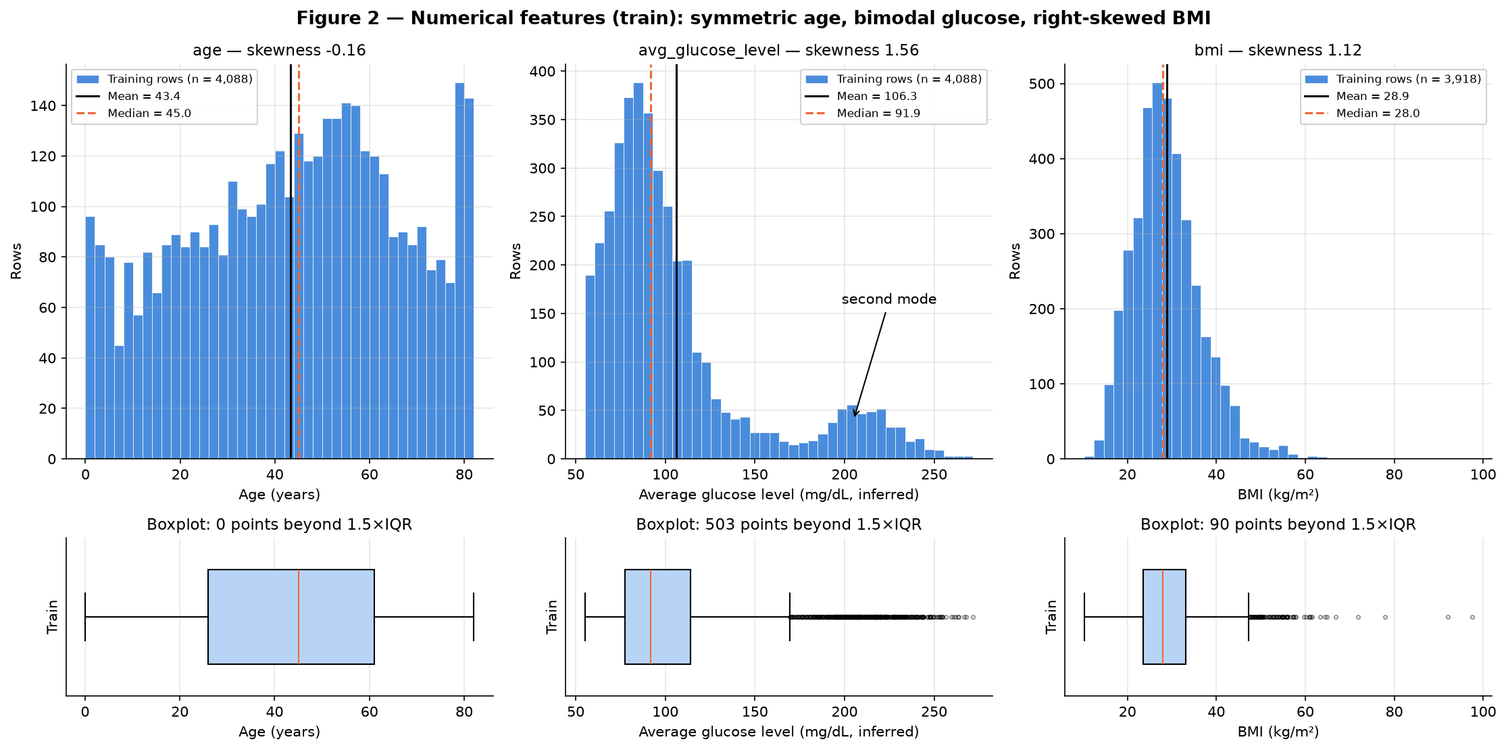
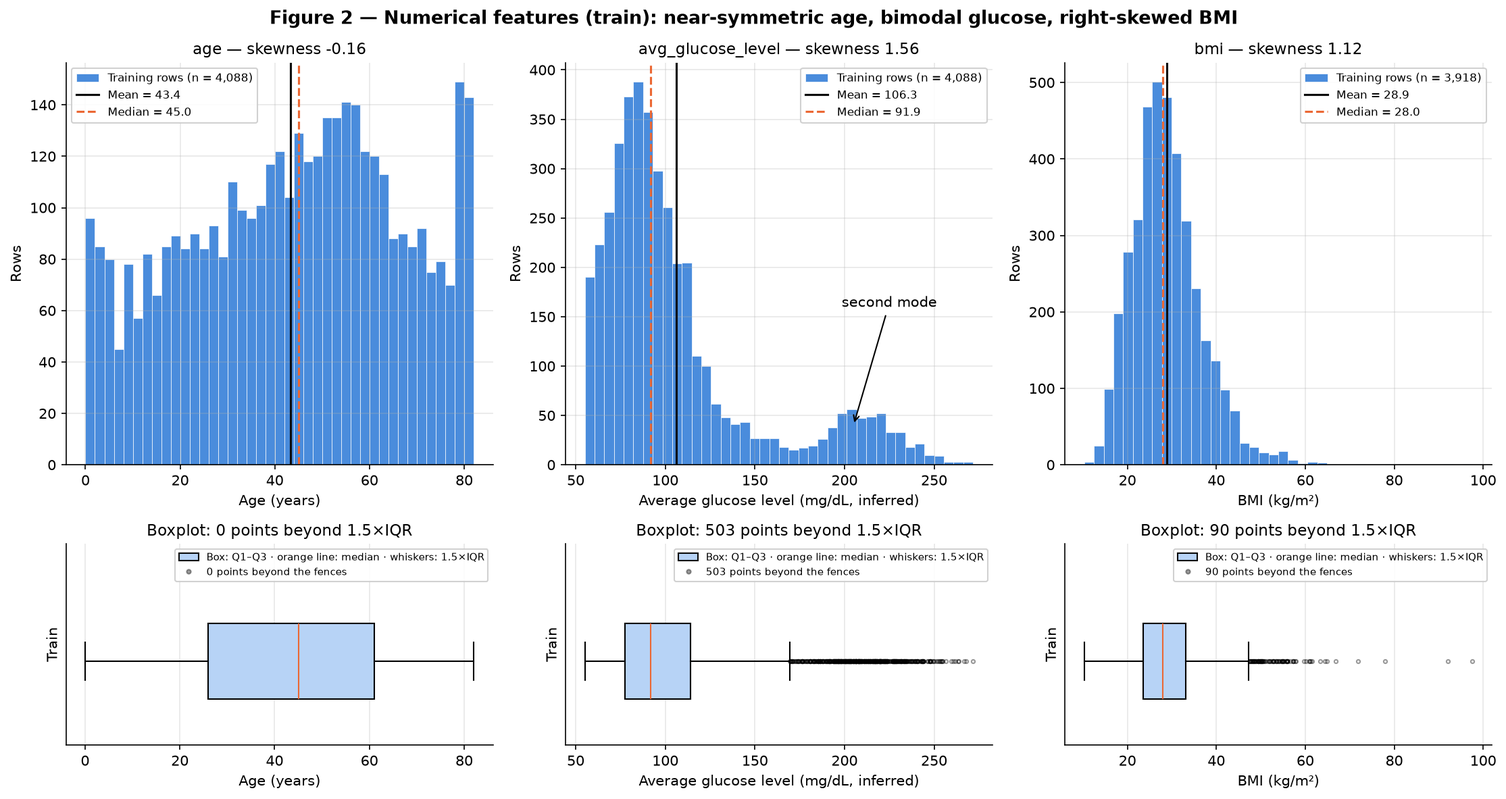
EDA: figure titles and legends built from the data, name-based column lookups, full-file medians from the raw file; report wording from the review, one conclusion per figure, code listings at the end of sections 3 and 4

diff --git a/docs/projects/eda/code/eda.py b/docs/projects/eda/code/eda.py
@@ -8,7 +8,8 @@ and every later statistic and figure uses the training rows only.
 import matplotlib.pyplot as plt
 import numpy as np
 import pandas as pd
-from matplotlib.patches import Patch
+from matplotlib.lines import Line2D
+from matplotlib.patches import Patch, Rectangle
 from scipy.stats import chi2_contingency, fisher_exact, mannwhitneyu, spearmanr
 
 from common import (CLASS_COLORS, CLASS_LABELS, GROUP_COLORS, NEUTRAL, RESULTS_DIR, UNITS, Results,
@@ -65,6 +66,7 @@ def stage1(raw, res):
     m["bmi_extremes"] = sorted(raw.bmi.dropna().nlargest(4).tolist(), reverse=True)
     m["age_min"], m["age_max"] = float(raw.age.min()), float(raw.age.max())
     m["gender_other_rows"] = int((raw.gender == "Other").sum())
+    m["id_distinct"] = int(raw[ID_COLUMN].nunique())
     m["fractional_age_max"] = float(raw.age[raw.age % 1 != 0].max())
     m["children_age_max"] = float(raw.age[raw.work_type == "children"].max())
     m["never_worked_age_range"] = [float(raw.age[raw.work_type == "Never_worked"].min()),
@@ -115,7 +117,8 @@ def stage1(raw, res):
                   width=0.6)
     for bar, n in zip(bars, counts.values):
         ax.text(bar.get_x() + bar.get_width() / 2, n + 60, f"{n:,} ({n / len(raw):.2%})", ha="center")
-    ax.set(title="Class frequencies (full file, 5,110 rows)", xlabel="Target class", ylabel="Rows", ylim=(0, 5600))
+    ax.set(title=f"Class frequencies (full file, {len(raw):,} rows)", xlabel="Target class", ylabel="Rows",
+           ylim=(0, counts.max() * 1.15))
     ax.legend(handles=[Patch(color=CLASS_COLORS[k], label=CLASS_LABELS[k]) for k in (0, 1)], loc="upper right")
     ax = axes[1]
     row = np.arange(len(raw))
@@ -124,7 +127,7 @@ def stage1(raw, res):
     ax.set(title="Positives by position in the CSV: the file is sorted by target",
            xlabel="Row position in the CSV", ylabel="Cumulative stroke = 1 rows")
     ax.legend(loc="lower right")
-    save_figure(fig, 1, "Target: 4.87% positives, all stored at the top of the file")
+    save_figure(fig, 1, f"Target: {m['pos_pct']:.2f}% positives, all stored at the top of the file")
 
     train = X_train.assign(**{TARGET: y_train})
     return train
@@ -158,7 +161,7 @@ def stage2(train, res):
     m["glucose_above_150_pct"] = float((glucose > 150).mean() * 100)
 
     # Figure 2 — histograms with mean/median and boxplots (shape, modes, outliers)
-    fig, axes = plt.subplots(2, 3, figsize=(15, 7.5), gridspec_kw={"height_ratios": [3, 1.2]})
+    fig, axes = plt.subplots(2, 3, figsize=(15, 8), gridspec_kw={"height_ratios": [3, 1.5]})
     for j, c in enumerate(NUM):
         x = train[c].dropna()
         ax = axes[0, j]
@@ -170,15 +173,21 @@ def stage2(train, res):
         ax.set(title=f"{c} — skewness {x.skew():.2f}", xlabel=UNITS[c], ylabel="Rows")
         ax.legend(loc="upper left" if c == "age" else "upper right")
         ax = axes[1, j]
-        ax.boxplot(x, orientation="horizontal", widths=0.6, patch_artist=True,
+        ax.boxplot(x, orientation="horizontal", widths=0.45, patch_artist=True,
                    boxprops={"facecolor": "#b7d3f6"}, medianprops={"color": CLASS_COLORS[1]},
                    flierprops={"marker": "o", "markersize": 2.5, "alpha": 0.4})
         q1, q3 = x.quantile(.25), x.quantile(.75)
         n_out = int(((x < q1 - 1.5 * (q3 - q1)) | (x > q3 + 1.5 * (q3 - q1))).sum())
-        ax.set(xlabel=UNITS[c], yticks=[], ylabel="Train", title=f"Boxplot: {n_out} points beyond 1.5×IQR")
+        ax.set(xlabel=UNITS[c], yticks=[], ylabel="Train", ylim=(0.5, 1.7),
+               title=f"Boxplot: {n_out} points beyond 1.5×IQR")
+        ax.legend(handles=[Patch(facecolor="#b7d3f6", edgecolor="#0b0b0b",
+                                 label="Box: Q1–Q3 · orange line: median · whiskers: 1.5×IQR"),
+                           Line2D([], [], marker="o", color="#0b0b0b", ls="none", ms=3, alpha=0.4,
+                                  label=f"{n_out} points beyond the fences")],
+                  loc="upper right", fontsize=7)
     axes[0, 1].annotate("second mode", xy=(m["glucose_mode_high"], 40), xytext=(225, 160),
                         arrowprops={"arrowstyle": "->"}, ha="center")
-    save_figure(fig, 2, "Numerical features (train): symmetric age, bimodal glucose, right-skewed BMI")
+    save_figure(fig, 2, "Numerical features (train): near-symmetric age, bimodal glucose, right-skewed BMI")
 
     # 2B — frequencies, cardinality and rare categories
     rows = []
@@ -213,13 +222,13 @@ def stage2(train, res):
     ax = axes.flat[-1]
     card = pd.Series({c: train[c].nunique() for c in CAT}).sort_values()
     ax.barh(card.index, card.values, color=NEUTRAL, height=0.6, label="Distinct categories")
-    ax.set(title="Cardinality (id: 5,110 distinct, dropped)", xlabel="Distinct categories in train", ylabel="Feature",
-           xticks=range(0, 7))
+    ax.set(title=f"Cardinality (id: {m['id_distinct']:,} distinct, dropped)", xlabel="Distinct categories in train",
+           ylabel="Feature", xticks=range(0, 7))
     ax.legend(loc="lower right")
     fig.legend(handles=[Patch(color=CLASS_COLORS[0], label="Category with ≥ 1% of the training rows"),
                         Patch(color=CLASS_COLORS[1], label="Rare category: < 1% of the training rows")],
                loc="lower center", ncol=2, bbox_to_anchor=(0.5, -0.03), fontsize=10)
-    save_figure(fig, 3, "Categorical features (train): low cardinality, two rare categories")
+    save_figure(fig, 3, f"Categorical features (train): low cardinality, {len(m['rare_categories'])} rare categories")
 
 
 def stage3(train, res):
@@ -259,9 +268,13 @@ def stage3(train, res):
                         color="white" if abs(mat.iloc[r, c]) > 0.6 else "#0b0b0b")
         ax.set(title=f"{method.capitalize()} (pairwise-complete)", xlabel="Feature", ylabel="Feature")
         fig.colorbar(im, ax=ax, fraction=0.046, label=f"{method.capitalize()} coefficient")
-    fig.legend(handles=[Patch(color="#b7d3f6", label="Pearson r: linear association, pulled by extreme values"),
-                        Patch(color="#f4c4b0", label="Spearman ρ: monotonic association on ranks")],
-               loc="lower center", ncol=2, bbox_to_anchor=(0.5, -0.04), fontsize=9)
+        i, j = (NUM.index(f) for f in top["pair"].split(" × "))
+        for r, c in ((i, j), (j, i)):
+            ax.add_patch(Rectangle((c - 0.5, r - 0.5), 1, 1, fill=False, edgecolor="#0b0b0b", lw=2))
+    fig.legend(handles=[Patch(facecolor="none", edgecolor="#0b0b0b", lw=2,
+                              label=f"Strongest pair: {top['pair']} — no pair reaches the redundancy flag "
+                                    f"|ρ| ≥ {REDUNDANT_RHO:.2f}")],
+               loc="lower center", bbox_to_anchor=(0.5, -0.04), fontsize=9)
     save_figure(fig, 4, "Numerical correlations (train): no redundant pair, strongest is age × BMI")
 
     # Figure 5 — scatter plots of the three pairs, positives drawn on top
@@ -288,6 +301,7 @@ def stage3(train, res):
             rows.append({"feature": c, "category": str(k), "n": int(r["count"]), "strokes": int(r["sum"]),
                          "stroke rate (%)": r["sum"] / r["count"] * 100, "ci_lo": lo * 100, "ci_hi": hi * 100})
         table = pd.crosstab(train[c], y)
+        # Pearson's chi-square without Yates' continuity correction (the correction only applies to 2x2 tables)
         chi2, p, dof, expected = chi2_contingency(table, correction=False)
         # expected counts below 5 invalidate the approximation: drop those categories and re-test
         small = table.index[(expected < 5).any(axis=1)]
@@ -331,8 +345,12 @@ def stage3(train, res):
     ax.barh(assoc.feature[::-1], assoc["Cramér's V"][::-1], color=NEUTRAL, height=0.55, label="Cramér's V")
     ax.set(title="Strength of association with stroke", xlabel="Cramér's V (0 = none)", ylabel="Feature")
     ax.legend(loc="lower right")
-    save_figure(fig, 6, "Stroke rate by category (train): "
-                        "hypertension, heart disease and marriage multiply it by 3.5–3.9")
+    binary = ["hypertension", "heart_disease", "ever_married"]
+    ratios = {c: float(rates.loc[rates.feature == c, "stroke rate (%)"].max()
+                       / rates.loc[rates.feature == c, "stroke rate (%)"].min()) for c in binary}
+    m["binary_rate_ratios"] = ratios
+    save_figure(fig, 6, "Stroke rate by category (train): hypertension, heart disease and marriage multiply it by "
+                        f"{min(ratios.values()):.1f}–{max(ratios.values()):.1f}")
 
     # 3C — grouped location (median) and spread (IQR) summaries
     def grouped(by, features):

diff --git a/docs/projects/eda/code/reduction.py b/docs/projects/eda/code/reduction.py
@@ -73,7 +73,7 @@ def outliers(X_train, y_train, res):
     m["bmi_minmax_q1_median_q3"] = [float((b.quantile(q) - b.min()) / span) for q in (.25, .5, .75)]
 
 
-def pipeline_checks(pre, X_train, X_test, Xt, Xv, names, res):
+def pipeline_checks(pre, raw, X_train, X_test, Xt, Xv, names, res):
     """4C contract: no NaN, shapes, names, train-only statistics, unseen categories."""
     m = res.metrics
     m["train_shape"], m["test_shape"] = list(Xt.shape), list(Xv.shape)
@@ -92,15 +92,16 @@ def pipeline_checks(pre, X_train, X_test, Xt, Xv, names, res):
     res.table(15, "Parameters fitted by the pipeline (training rows only)", pd.DataFrame(rows),
               {"imputation median": ".3f", "scaler mean": ".4f", "scaler std": ".4f"})
     assert np.isclose(log["impute"].statistics_[1], X_train.bmi.median())
-    full = pd.concat([X_train, X_test])
-    m["bmi_median_train"], m["bmi_median_full"] = float(X_train.bmi.median()), float(full.bmi.median())
+    # the full-file medians come from the raw file, read once in stage 1, to show what fitting there would give
+    m["bmi_median_train"], m["bmi_median_full"] = float(X_train.bmi.median()), float(raw.bmi.median())
     m["glucose_median_train"], m["glucose_median_full"] = (float(X_train.avg_glucose_level.median()),
-                                                           float(full.avg_glucose_level.median()))
-    m["num_means_train"] = Xt[:, :3].mean(axis=0).round(6).tolist()
-    m["num_stds_train"] = Xt[:, :3].std(axis=0).round(6).tolist()
-    m["num_means_test"] = Xv[:, :3].mean(axis=0).round(4).tolist()
-    m["num_stds_test"] = Xv[:, :3].std(axis=0).round(4).tolist()
-    m["max_abs_z_train"] = np.abs(Xt[:, :3]).max(axis=0).round(2).tolist()
+                                                           float(raw.avg_glucose_level.median()))
+    scaled = [i for i, n in enumerate(names) if n.startswith(("num__", "log__"))]
+    m["num_means_train"] = Xt[:, scaled].mean(axis=0).round(6).tolist()
+    m["num_stds_train"] = Xt[:, scaled].std(axis=0).round(6).tolist()
+    m["num_means_test"] = Xv[:, scaled].mean(axis=0).round(4).tolist()
+    m["num_stds_test"] = Xv[:, scaled].std(axis=0).round(4).tolist()
+    m["max_abs_z_train"] = np.abs(Xt[:, scaled]).max(axis=0).round(2).tolist()
 
     # A category never seen in training, and missing values everywhere, still give a finite row of the same width
     probe = X_test.iloc[:2].copy()
@@ -146,7 +147,8 @@ def main():
     """Run stage 4 and write Tables 13-18, Figures 9-13 and results/reduction_metrics.json."""
     res = Results("reduction")
     m = res.metrics
-    X_train, X_test, y_train, y_test = split(load_raw())
+    raw = load_raw()
+    X_train, X_test, y_train, y_test = split(raw)
     y = y_train.to_numpy()
 
     outliers(X_train, y_train, res)
@@ -155,7 +157,7 @@ def main():
     Xt = pre.fit_transform(X_train)     # fit on train only
     Xv = pre.transform(X_test)          # test is only transformed
     names = pre.get_feature_names_out()
-    pipeline_checks(pre, X_train, X_test, Xt, Xv, names, res)
+    pipeline_checks(pre, raw, X_train, X_test, Xt, Xv, names, res)
 
     # BMI missingness vs target in train (motivates the indicator)
     miss = X_train.bmi.isna().to_numpy()
@@ -210,9 +212,10 @@ def main():
     res.table(17, "Largest PCA loadings (eigenvector coefficients) of PC1 and PC2", top,
               {"PC1": "+.3f", "PC2": "+.3f"})
     m["loadings"] = load.set_index("feature").to_dict(orient="index")
-    # correlation of the PC scores with the raw numerical features (helps naming the components)
+    # correlation of the PC scores with the scaled numerical columns and the indicator (helps naming the components)
     for i in (0, 1):
-        m[f"pc{i + 1}_corr"] = {c: float(np.corrcoef(P[:, i], Xt[:, j])[0, 1]) for j, c in enumerate(names[:4])}
+        m[f"pc{i + 1}_corr"] = {n: float(np.corrcoef(P[:, i], Xt[:, j])[0, 1])
+                                for j, n in enumerate(names) if not n.startswith("cat__")}
 
     # Figure 10 — PCA scatter, cumulative variance, loadings
     fig, axes = plt.subplots(1, 3, figsize=(18, 5.2))
@@ -275,7 +278,7 @@ def main():
                  "positives among 10-NN of positives (%)": enr, "same categorical profile among 10-NN (%)": agr})
     m["n_profiles_shuffled"] = int(len(set(cat_s)))
     diag = pd.DataFrame(rows)
-    res.table(18, "Projection diagnostics (train, 4,088 rows; base rate 4.87%)", diag,
+    res.table(18, f"Projection diagnostics (train, {len(y):,} rows; base rate {y.mean():.2%})", diag,
               {"trustworthiness k=5": ".3f", "trustworthiness k=30": ".3f",
                "positives among 10-NN of positives (%)": ".2f", "same categorical profile among 10-NN (%)": ".1f"})
     m["projection_diagnostics"] = diag.to_dict(orient="records")

diff --git a/docs/projects/eda/code/preprocessing.py b/docs/projects/eda/code/preprocessing.py
@@ -42,8 +42,8 @@ def load_raw(path=DATA_PATH):
 def split(df, test_size=0.2):
     """Stratified 80/20 split with a fixed seed; returns X_train, X_test, y_train, y_test.
 
-    The file is sorted by the target (the 249 positives are its first rows), so the split
-    must shuffle; stratification keeps the 4.87% minority rate identical in both parts.
+    The file is sorted by the target (every positive comes first), so the split must shuffle;
+    stratification keeps the minority rate the same in both parts.
     """
     X = df[FEATURES]
     y = df[TARGET]

diff --git a/docs/projects/eda/index.md b/docs/projects/eda/index.md
@@ -27,7 +27,7 @@ The run takes about 80 seconds on a laptop. It writes Figures 1–13 to `figures
 
 **Challenges.**
 
-- *The file is sorted by the target.* The 249 positives are its first 249 rows, so any split that does not shuffle would leave the test set without a single positive. The split shuffles and stratifies.
+- *The file is sorted by the target.* The 249 positives are its first 249 rows, so a sequential cut that keeps the last 20% as the test set would hold no positive at all. The split shuffles and stratifies.
 - *Missing values that carry information.* BMI is missing five times more often among the positives. Imputing it silently would erase that signal, and dropping the rows would remove 18.6% of the training positives; the pipeline imputes and keeps an indicator.
 - *Outliers that are a population.* The 503 glucose values that the 1.5×IQR rule flags are the second mode of a bimodal distribution, with a stroke rate of 13.12%. Nothing is deleted or clipped; the tails are compressed with `log1p`.
 - *Categories that are age in disguise.* Marriage, work type and smoking status look like risk factors until age is held fixed. Section 3C re-tests every category within age bands, and one effect reverses.
@@ -129,7 +129,7 @@ The run takes about 80 seconds on a laptop. It writes Figures 1–13 to `figures
 
 - **`id` — dropped.** It is an identifier, not a measurement. Its Spearman correlation with the target is 0.0065 (p = 0.64), so it carries no signal. It is also unique, so there are no repeated patients to group in the split.
 - **Row order leaks the target.** The 249 positives occupy rows 1–249 of the CSV, and every negative comes after them (Figure 1, right). Any split that does not shuffle — such as taking the last 20% of the file as the test set — would hold **0 positives** in the test set. Positional information (the row index, or a sequential cut) must never reach a model, and the split below shuffles.
-- **The BMI missingness is suspiciously related to the target.** The stroke rate is 19.90% (40 of 201) when `bmi` is missing, against 4.26% (209 of 4,909) when it is observed. A plausible mechanism is that BMI was not recorded for patients admitted *because of* a stroke. If so, "BMI is missing" is partly a consequence of the label. It is kept as an indicator (4A) because the information is real in this file, but it is listed as a leakage risk with a test plan (section 5).
+- **The BMI missingness is suspiciously related to the target.** The stroke rate is 19.90% (40 of 201) when `bmi` is missing, against 4.26% (209 of 4,909) when it is observed (on the training rows alone, 21.76% against 4.13%, Figure 9). A plausible mechanism is that BMI was not recorded for patients admitted *because of* a stroke. If so, "BMI is missing" is partly a consequence of the label. It is kept as an indicator (4A) because the information is real in this file, but it is listed as a leakage risk with a test plan (section 5).
 - **No smoking-gun feature.** No predictor comes close to the course's "correlation > 0.95 with the target" warning. The strongest single feature is `age`, with a single-feature AUC of 0.834 (Table 10), and its relation to stroke is clinically expected. Among the categorical features, the largest Cramér's V is 0.133 (Table 9).
 - **Timing of the clinical flags is unknown.** `hypertension` and `heart_disease` might have been recorded after the stroke. Nothing in the file can settle this, so it is a modeling risk, not a reason to drop them.
 - **No constant column** and no other identifier.
@@ -188,10 +188,10 @@ Figure 2 — Histograms, with the mean and the median marked, and boxplots of th
 The figure shows histograms, to read the shape and the modes, with boxplots below, to count the points beyond 1.5×IQR. The mean is drawn next to the median because their gap is the cheapest skewness diagnostic.
 
 - **`age`** — roughly uniform between 0 and 82 years, with a slight left skew (−0.16; mean 43.35 < median 45.00) and a flat shape (excess kurtosis −0.98). The two tallest 2-year bins are the last ones, 78–80 and 80–82: the oldest patients are over-represented, and none is older than 82. No point lies beyond the IQR fences.
-- **`avg_glucose_level`** — strongly right-skewed (1.56; mean 106.32 > median 91.94) and, above all, **bimodal**. The main mode is near 85 mg/dL and a second mode near 205 mg/dL, separated by a valley near 175 mg/dL. 589 training rows (14.41%) lie above 150 mg/dL. The boxplot flags 503 points as "outliers", but they are not isolated errors: they are the second mode — a subpopulation, most likely diabetic patients, whose diagnosis is not a column of the file.
+- **`avg_glucose_level`** — strongly right-skewed (1.56; mean 106.32 > median 91.94) and, above all, **bimodal**. Located on a 10 mg/dL histogram, the main mode is near 85 mg/dL and a second mode near 205 mg/dL, separated by a valley near 175 mg/dL. 589 training rows (14.41%) lie above 150 mg/dL. The boxplot flags 503 points as "outliers", but they are not isolated errors: they are the second mode — a subpopulation, most likely diabetic patients, whose diagnosis is not a column of the file.
 - **`bmi`** — right-skewed (1.12; mean 28.92 > median 28.00) with a heavy right tail (excess kurtosis 3.84). 90 points lie beyond the upper fence of 47.35, and the maximum is 97.6.
 
-**Conclusion — Figure 2.** Age needs only rescaling. Glucose and BMI exceed the course's skewness threshold of 1, and glucose additionally mixes two populations. *This implies that* glucose and BMI need a log transform before standardization (4A). It also implies that the 1.5×IQR rule cannot be used to delete glucose rows, since it would delete the second mode.
+**Conclusion — Figure 2.** Age needs only rescaling. Glucose and BMI exceed the course's skewness threshold of 1, and glucose additionally mixes two populations. *This implies that* glucose and BMI need a log transform before standardization (4A), and that the 1.5×IQR rule cannot be used to delete glucose rows, since it would delete the second mode.
 
 ### B — Categorical
 
@@ -230,7 +230,7 @@ Figure 3 — Frequency of every category in the training rows, rare categories (
 - **Imbalanced flags:** `hypertension = 1` (9.71%) and `heart_disease = 1` (5.41%) are minority categories, but they are not rare.
 - **`smoking_status = Unknown` is the second largest category** (1,247 rows, 30.50%). Its size alone rules out dropping those rows.
 
-**Conclusion — Figure 3.** All seven features have small, closed vocabularies, with two rare categories and one large disguised-missing category. *This implies that* one-hot encoding is cheap — 20 columns in total. It also implies that the encoder must tolerate a category it has never seen, because a vocabulary built from one `Other` row is fragile.
+**Conclusion — Figure 3.** All seven features have small, closed vocabularies, with two rare categories and one large disguised-missing category. *This implies that* one-hot encoding is cheap — 20 columns in total — and that the encoder must tolerate a category it has never seen, because a vocabulary built from one `Other` row is fragile.
 
 ## 3. Bivariate and multivariate analysis
 
@@ -261,7 +261,7 @@ Figure 4 — Pearson and Spearman correlation matrices of the numerical features
 Figure 5 — Scatter plots of the three numerical pairs, training rows, with the stroke cases drawn on top.
 ///
 
-**Conclusion — Figure 5.** The age × BMI association is a **childhood growth effect**. Among adults (age ≥ 18, n = 3,259), the same Spearman coefficient falls from 0.381 to 0.083: the pooled correlation is mostly confounding by age group (children against adults), the reason the course lab asks for correlations within groups as well. The plots also show where the positives sit: at older ages, in both glucose modes, with BMI near the middle of its range. *This implies that* correlations computed on the pooled data overstate the redundancy between age and BMI. It also implies that age is the variable organizing the positives.
+**Conclusion — Figure 5.** The age × BMI association is a **childhood growth effect**. Among adults with an observed BMI (age ≥ 18, n = 3,259), the same Spearman coefficient falls from 0.381 to 0.083: the pooled correlation is mostly confounding by age group (children against adults), the reason the course lab asks for correlations within groups as well. The plots also show where the positives sit: at older ages, in both glucose modes, with BMI near the middle of its range. *This implies that* correlations computed on the pooled data overstate the redundancy between age and BMI, and that age is the variable organizing the positives.
 
 ### B — Categorical × target
 
@@ -290,7 +290,7 @@ Figure 5 — Scatter plots of the three numerical pairs, training rows, with the
 | smoking_status | never smoked | 1501 | 71 | 4.73 | 3.8–5.9 |
 | smoking_status | smokes | 626 | 34 | 5.43 | 3.9–7.5 |
 
-**Table 9 — Association of each categorical feature with the target (train).** Each row is a χ² test of independence, with Cramér's V as the effect size, since with n = 4,088 a p-value alone says little.
+**Table 9 — Association of each categorical feature with the target (train).** Each row is Pearson's χ² test of independence, without Yates' continuity correction, with Cramér's V as the effect size, since with n = 4,088 a p-value alone says little.
 
 | feature | χ² | dof | p-value | Cramér's V | min expected count | p-value, categories with expected < 5 removed |
 |---|---|---|---|---|---|---|
@@ -396,7 +396,17 @@ The age bands separate the real signals from the age proxies:
 - **The work and smoking effects almost disappear.** At 60+, Self-employed (12.40%) is no longer above Private (13.53%). Formerly smoked (14.47%) is only slightly above never smoked (12.86%).
 - **Marriage reverses.** At 60+, the never-married have the higher rate: 20.48% (17 of 83; 95% Wilson 13.2–30.4%) against 12.34% for the married (10.5–14.5%), Fisher p = 0.041. The group is small, so the reversal itself is only suggestive, but the pattern is that of a Simpson's paradox: the median age is 54 for the married and 18 for the never-married, so the unadjusted 3.9× mostly reflects the age gap, not marriage.
 
-*This implies that* the network must see age together with the categorical features. It also implies that none of the social categories can be presented as a risk factor.
+*This implies that* the network must see age together with the categorical features, and that none of the social categories can be presented as a risk factor.
+
+### Code
+
+``` python title="code/eda.py"
+--8<-- "docs/projects/eda/code/eda.py"
+```
+
+``` python title="code/common.py"
+--8<-- "docs/projects/eda/code/common.py"
+```
 
 ## 4. Preprocessing
 
@@ -418,7 +428,7 @@ The pipeline is defined in `code/preprocessing.py` (shown in 4C) and fitted on t
 Figure 9 — Stroke rate by BMI missingness (left) and the distributions of glucose and BMI after log1p and standardization; training rows.
 ///
 
-**Conclusion — Figure 9.** BMI missingness multiplies the stroke rate by about five (left). The `log1p` transform brings BMI's skewness from 1.12 to 0.04 (right) and glucose's from 1.56 to 0.88 (middle). Glucose remains bimodal: `log1p` leaves both modes in place. *This implies that* the indicator is needed. It also implies that the log fixes the BMI tail, while the glucose second mode stays a structure the network must learn.
+**Conclusion — Figure 9.** BMI missingness multiplies the stroke rate by about five (left). The `log1p` transform brings BMI's skewness from 1.12 to 0.04 (right) and glucose's from 1.56 to 0.88 (middle). Glucose remains bimodal: `log1p` leaves both modes in place. *This implies that* the indicator is needed, and that the log fixes the BMI tail while the glucose second mode stays a structure the network must learn.
 
 **2 — Outliers.**
 
@@ -513,7 +523,7 @@ Figure 10 — PCA of the transformed training matrix: scores colored by the targ
 
 **Conclusion — Figure 10.** The positives sit at high PC1 (older patients) and spread along PC2 across both glucose modes, inside a cloud of negatives. *This implies that* the target is not linearly separable in the two directions of largest variance. A linear 2D summary would be a poor input for the classifier.
 
-**t-SNE and UMAP.** Following the course's advice to run at least three values across the usual 5–50 range, each method is fitted three times:
+**t-SNE and UMAP.** The statement asks for at least two values of each parameter; the course's reduction handout recommends at least three across the usual 5–50 range, so each method is fitted three times:
 
 - **t-SNE:** perplexity 5, 30 and 50 (`init="pca"`, `learning_rate="auto"`, `random_state=42`). The final KL divergences are 0.971, 1.017 and 1.059.
 - **UMAP:** n_neighbors 5, 15 and 50 (`min_dist=0.1`, `random_state=42`).
@@ -539,7 +549,7 @@ Figure 12 — UMAP of the transformed training matrix at n_neighbors 5, 15 and 5
 Figure 13 — PCA, t-SNE and UMAP colored by work type (top) and by age, with the stroke cases circled (bottom).
 ///
 
-**Conclusion — Figure 13.** Colored by `work_type` (top), the t-SNE and UMAP islands are homogeneous blocks of categories — children form islands of their own — while PCA mixes every category in one cloud. Colored by age (bottom), every map shows the positives on the oldest points, whatever the island. *This implies that* the nonlinear maps are organized by the categorical profiles, while the risk follows age across them. It also implies that the islands are not stroke subtypes.
+**Conclusion — Figure 13.** Colored by `work_type` (top), the t-SNE and UMAP islands are homogeneous blocks of categories — children form islands of their own — while PCA mixes every category in one cloud. Colored by age (bottom), every map shows the positives on the oldest points, whatever the island. *This implies that* the nonlinear maps are organized by the categorical profiles while the risk follows age across them, so the islands are not stroke subtypes.
 
 **Table 18 — Projection diagnostics (train, 4,088 rows; base rate 4.87%).** Trustworthiness measures how well each map keeps the original neighbors (k = 5 and k = 30). The last two columns count, among each point's 10 nearest neighbors in the map, the share that are positive (computed around the positives only) and the share with exactly the same categorical profile — the 7 categorical features plus the BMI indicator.
 
@@ -598,6 +608,16 @@ Figure 13 — PCA, t-SNE and UMAP colored by work type (top) and by age, with th
 | 11 | `cat__heart_disease_1` | 23 | `cat__smoking_status_never smoked` |
 | 12 | `cat__ever_married_No` | 24 | `cat__smoking_status_smokes` |
 
+### Code
+
+``` python title="code/reduction.py"
+--8<-- "docs/projects/eda/code/reduction.py"
+```
+
+``` python title="code/check_report.py"
+--8<-- "docs/projects/eda/code/check_report.py"
+```
+
 ## 5. Synthesis
 
 *Written for whoever builds the classifier.*
@@ -605,13 +625,13 @@ Figure 13 — PCA, t-SNE and UMAP colored by work type (top) and by age, with th
 **Main findings.**
 
 1. **Severe imbalance:** 4.87% positives, 19.52 negatives per positive, and only 199 positives in training (Table 4, Figure 1).
-2. **The CSV is sorted by the target.** All 249 positives come first, so any unshuffled cut gives a test set with 0 positives (Figure 1).
+2. **The CSV is sorted by the target.** All 249 positives come first, so a sequential cut with the last 20% as the test set gives 0 positives (Figure 1).
 3. **Age is the dominant signal.** It has a single-feature AUC of 0.834, and 71.86% of the positives are 60 or older (Table 10, Figure 7). It also places the positives inside the projection islands that contain them (Figure 13).
 4. **Glucose is bimodal.** 14.41% of the patients are above 150 mg/dL, with a stroke rate of 12.22% against 3.63% below. The variable that splits the two modes, probably diabetes, is not in the file (Figure 2, section 3C).
 5. **Hypertension and heart disease are real risk markers.** They survive age stratification, though weaker: 17.87% vs 11.62% and 18.39% vs 11.94% at 60+ (Table 12).
 6. **Marriage, work type and smoking status are age proxies.** Their unadjusted effects vanish or reverse within age bands (Tables 11–12, Figure 8).
 7. **BMI missingness is informative:** 21.76% stroke rate among missing values vs 4.13% among observed (Figure 9).
-8. **No redundant numerical pair.** The strongest is age × BMI, with ρ = 0.381, which falls to 0.083 among adults (Table 7, Figure 5).
+8. **No redundant numerical pair.** The strongest is age × BMI, with ρ = 0.381, which falls to 0.083 among adults aged 18 or more (Table 7, Figure 5).
 9. **The geometry is a mosaic of 364 categorical profiles.** No 2D projection separates the classes (Table 18, Figures 10–13).
 
 **Risks for modeling, each with a handling plan.**
@@ -629,20 +649,6 @@ Figure 13 — PCA, t-SNE and UMAP colored by work type (top) and by age, with th
 
 **Reproducibility.** The code runs from a clean clone (`pip install -r requirements.txt`, then `python docs/projects/eda/code/main.py`). Every table and figure comes from that run, and every number quoted is either stored in `results/` or simple arithmetic on those values (ratios such as 1.8× or 19.5); `python docs/projects/eda/code/check_report.py` then confirms that the 17 tables embedded here equal the generated ones and that the results summary carries the stored numbers. The run recorded here used Python 3.14.3, numpy 2.5.2, pandas 3.0.5, scipy 1.18.1, scikit-learn 1.9.0, umap-learn 0.5.12 and matplotlib 3.11.1 (saved in `results/reduction_metrics.json`). A rerun from a fresh clone reproduced every file in `results/` byte for byte; other library versions may move the t-SNE and UMAP coordinates.
 
-### Code
-
-``` python title="code/eda.py"
---8<-- "docs/projects/eda/code/eda.py"
-```
-
-``` python title="code/reduction.py"
---8<-- "docs/projects/eda/code/reduction.py"
-```
-
-``` python title="code/common.py"
---8<-- "docs/projects/eda/code/common.py"
-```
-
 ## Results summary
 
 | # | Results summary | Value |
@@ -653,7 +659,7 @@ Figure 13 — PCA, t-SNE and UMAP colored by work type (top) and by age, with th
 | 4 | Dropped columns and the reason | `id` — an identifier, no signal (Spearman 0.0065 with the target); no constant or leaking predictor dropped |
 | 5 | Minority class (%) · or mean and median of the target | `stroke = 1`: 249 of 5,110 = 4.87% (19.52 negatives per positive) |
 | 6 | Size of the training and test sets | Train 4,088 (199 positives) · test 1,022 (50 positives); stratified 80/20, `random_state=42` |
-| 7 | Most correlated numerical pair and its value | age × bmi, Spearman ρ = 0.381 (Pearson r = 0.336); 0.083 among adults |
+| 7 | Most correlated numerical pair and its value | age × bmi, Spearman ρ = 0.381 (Pearson r = 0.336); 0.083 among adults aged 18 or more |
 | 8 | Rows affected by the outlier strategy | 569 training rows (13.92%) flagged by 1.5×IQR; 0 removed, 0 clipped; their glucose/BMI tails compressed by `log1p` (largest BMI z, median-imputed: 8.85 → 4.87) |
 | 9 | Variance explained by PC1 + PC2 | 46.00% (PC1 30.80% + PC2 15.20%) |
 | 10 | shape of train and test after the pipeline | train (4088, 24) · test (1022, 24); 0 NaN |

diff --git a/README.md b/README.md
@@ -26,7 +26,7 @@ Every push to `main` publishes the site automatically via GitHub Actions (`mkdoc
 
 ## Reproducing the results
 
-Each report's code lives in `docs/exercises/<exercise>/code/` and rewrites the figures in `docs/exercises/<exercise>/figures/`. From the repository root:
+Each report's code lives in its own `code/` folder (`docs/exercises/<slug>/code/` or `docs/projects/<slug>/code/`) and rewrites the figures in the sibling `figures/`. From the repository root:
 
 ``` shell
 python docs/exercises/data/code/exercise1.py        # also exercise2.py and exercise3.py
